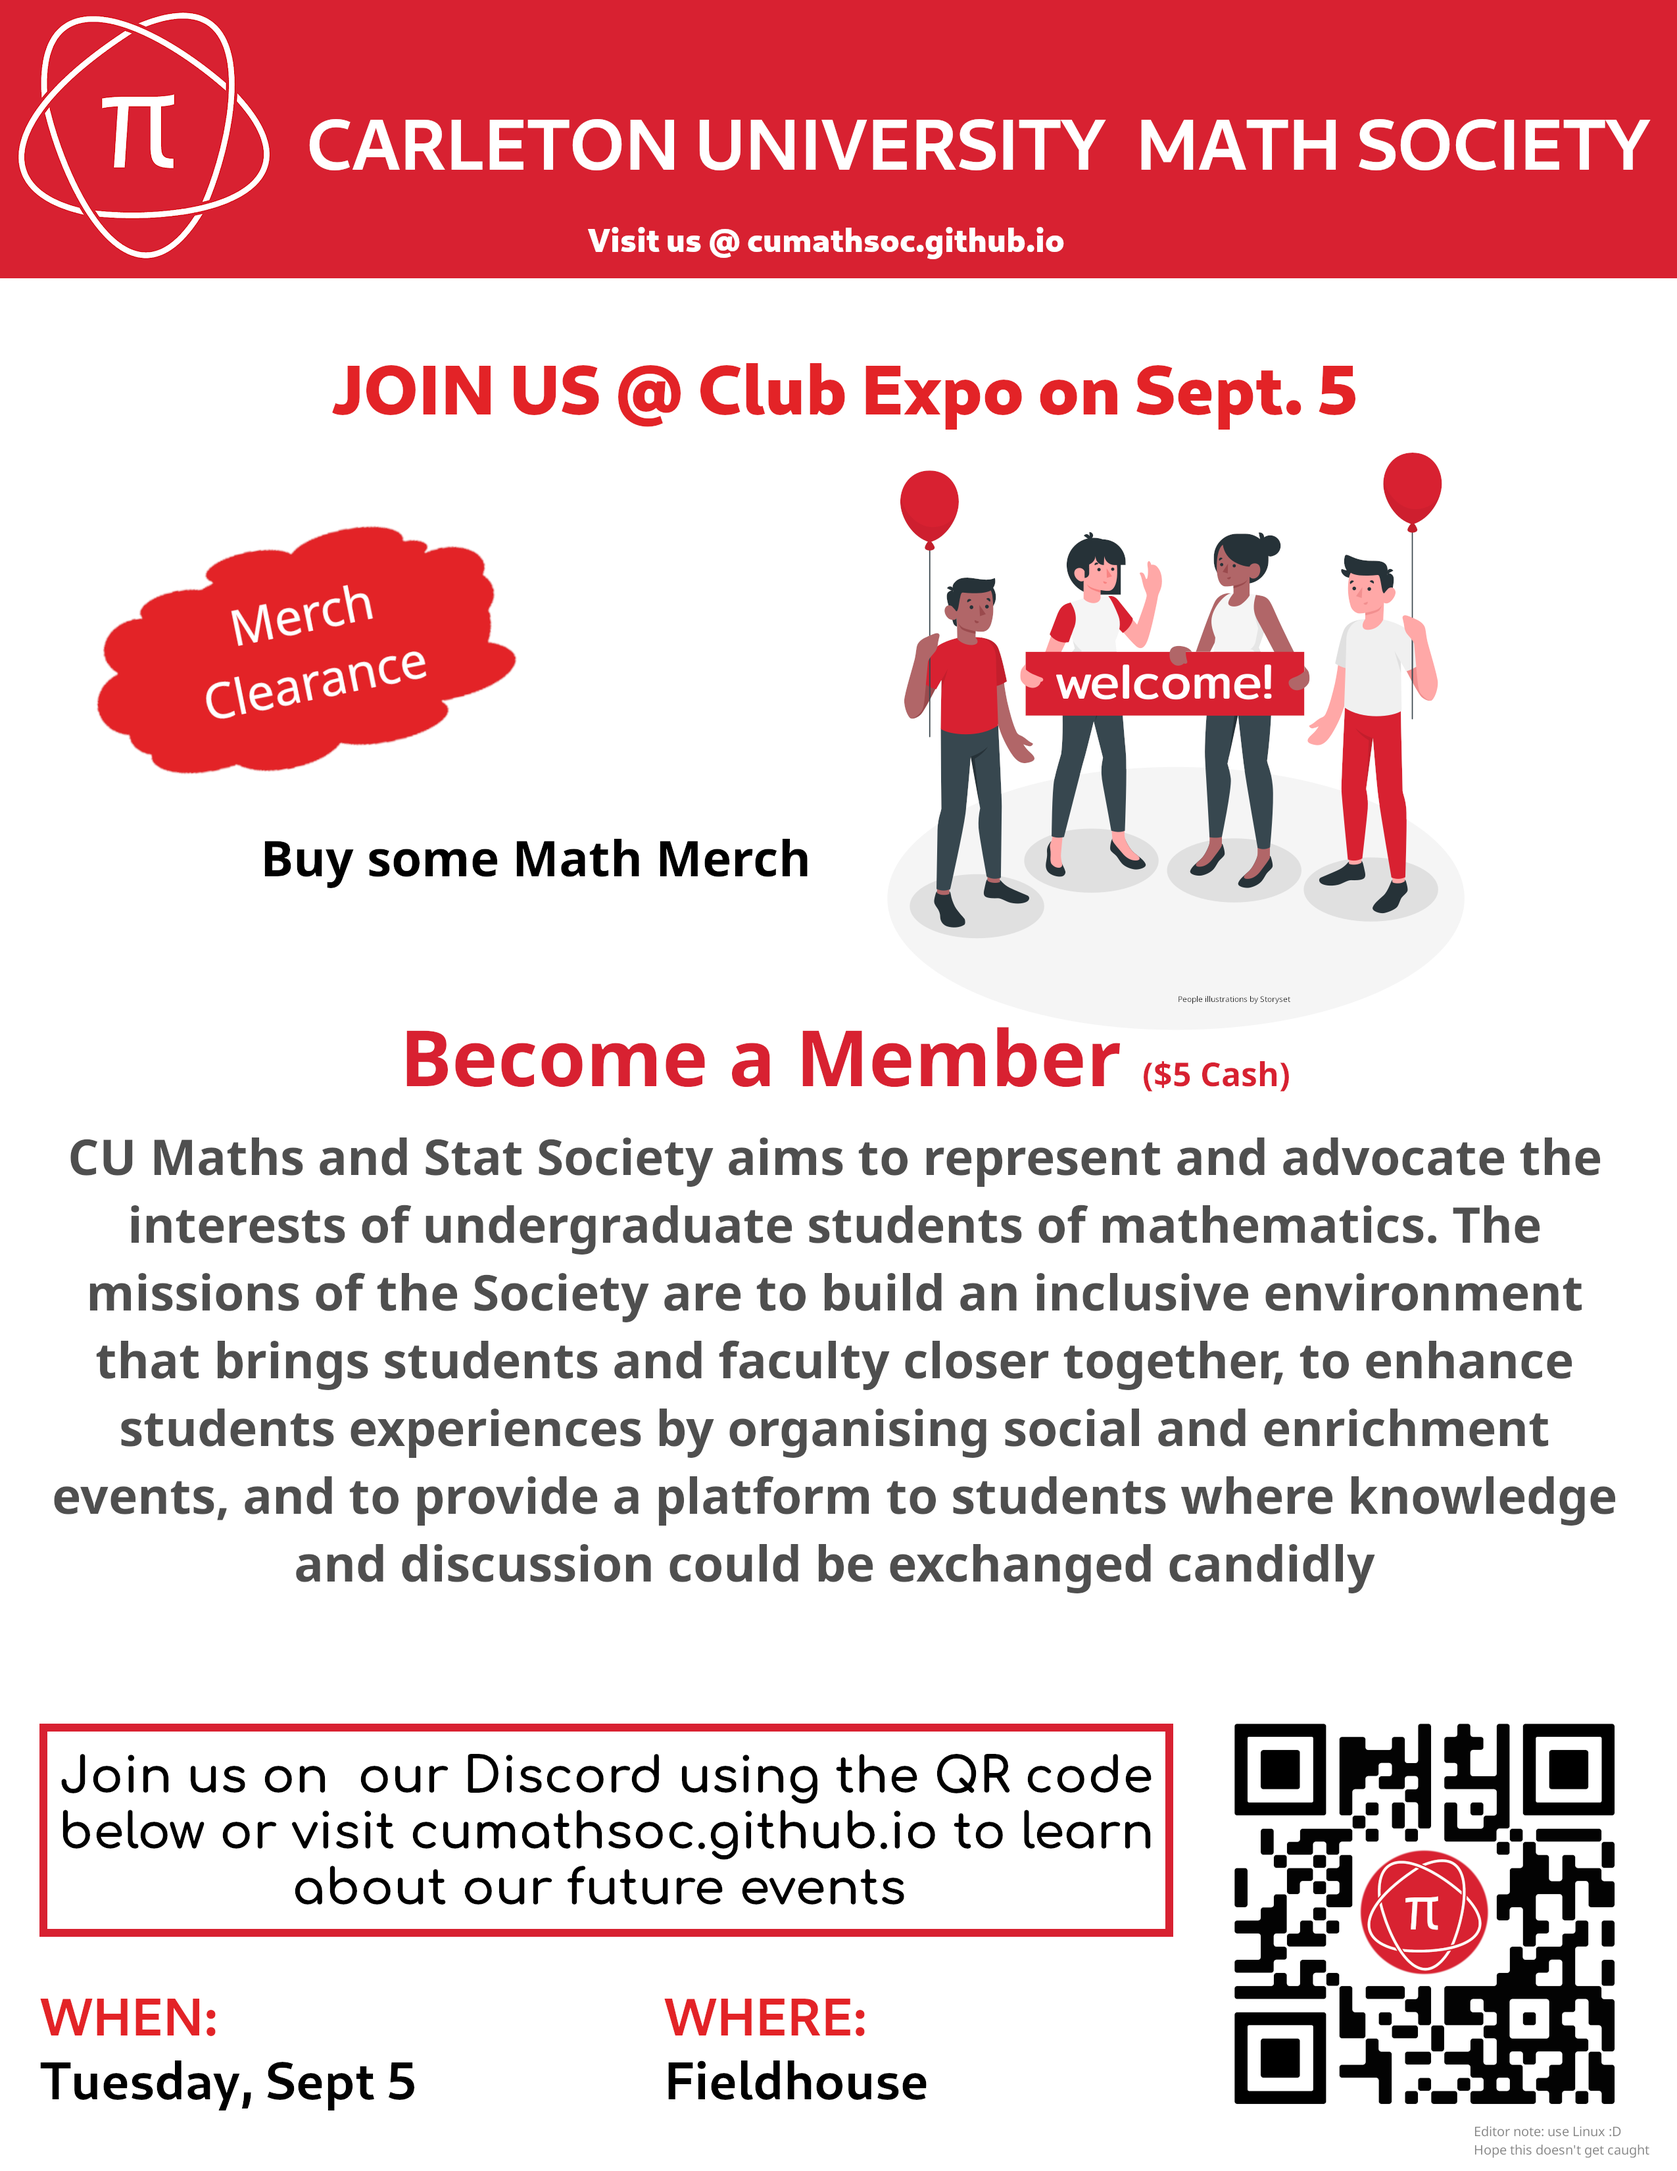
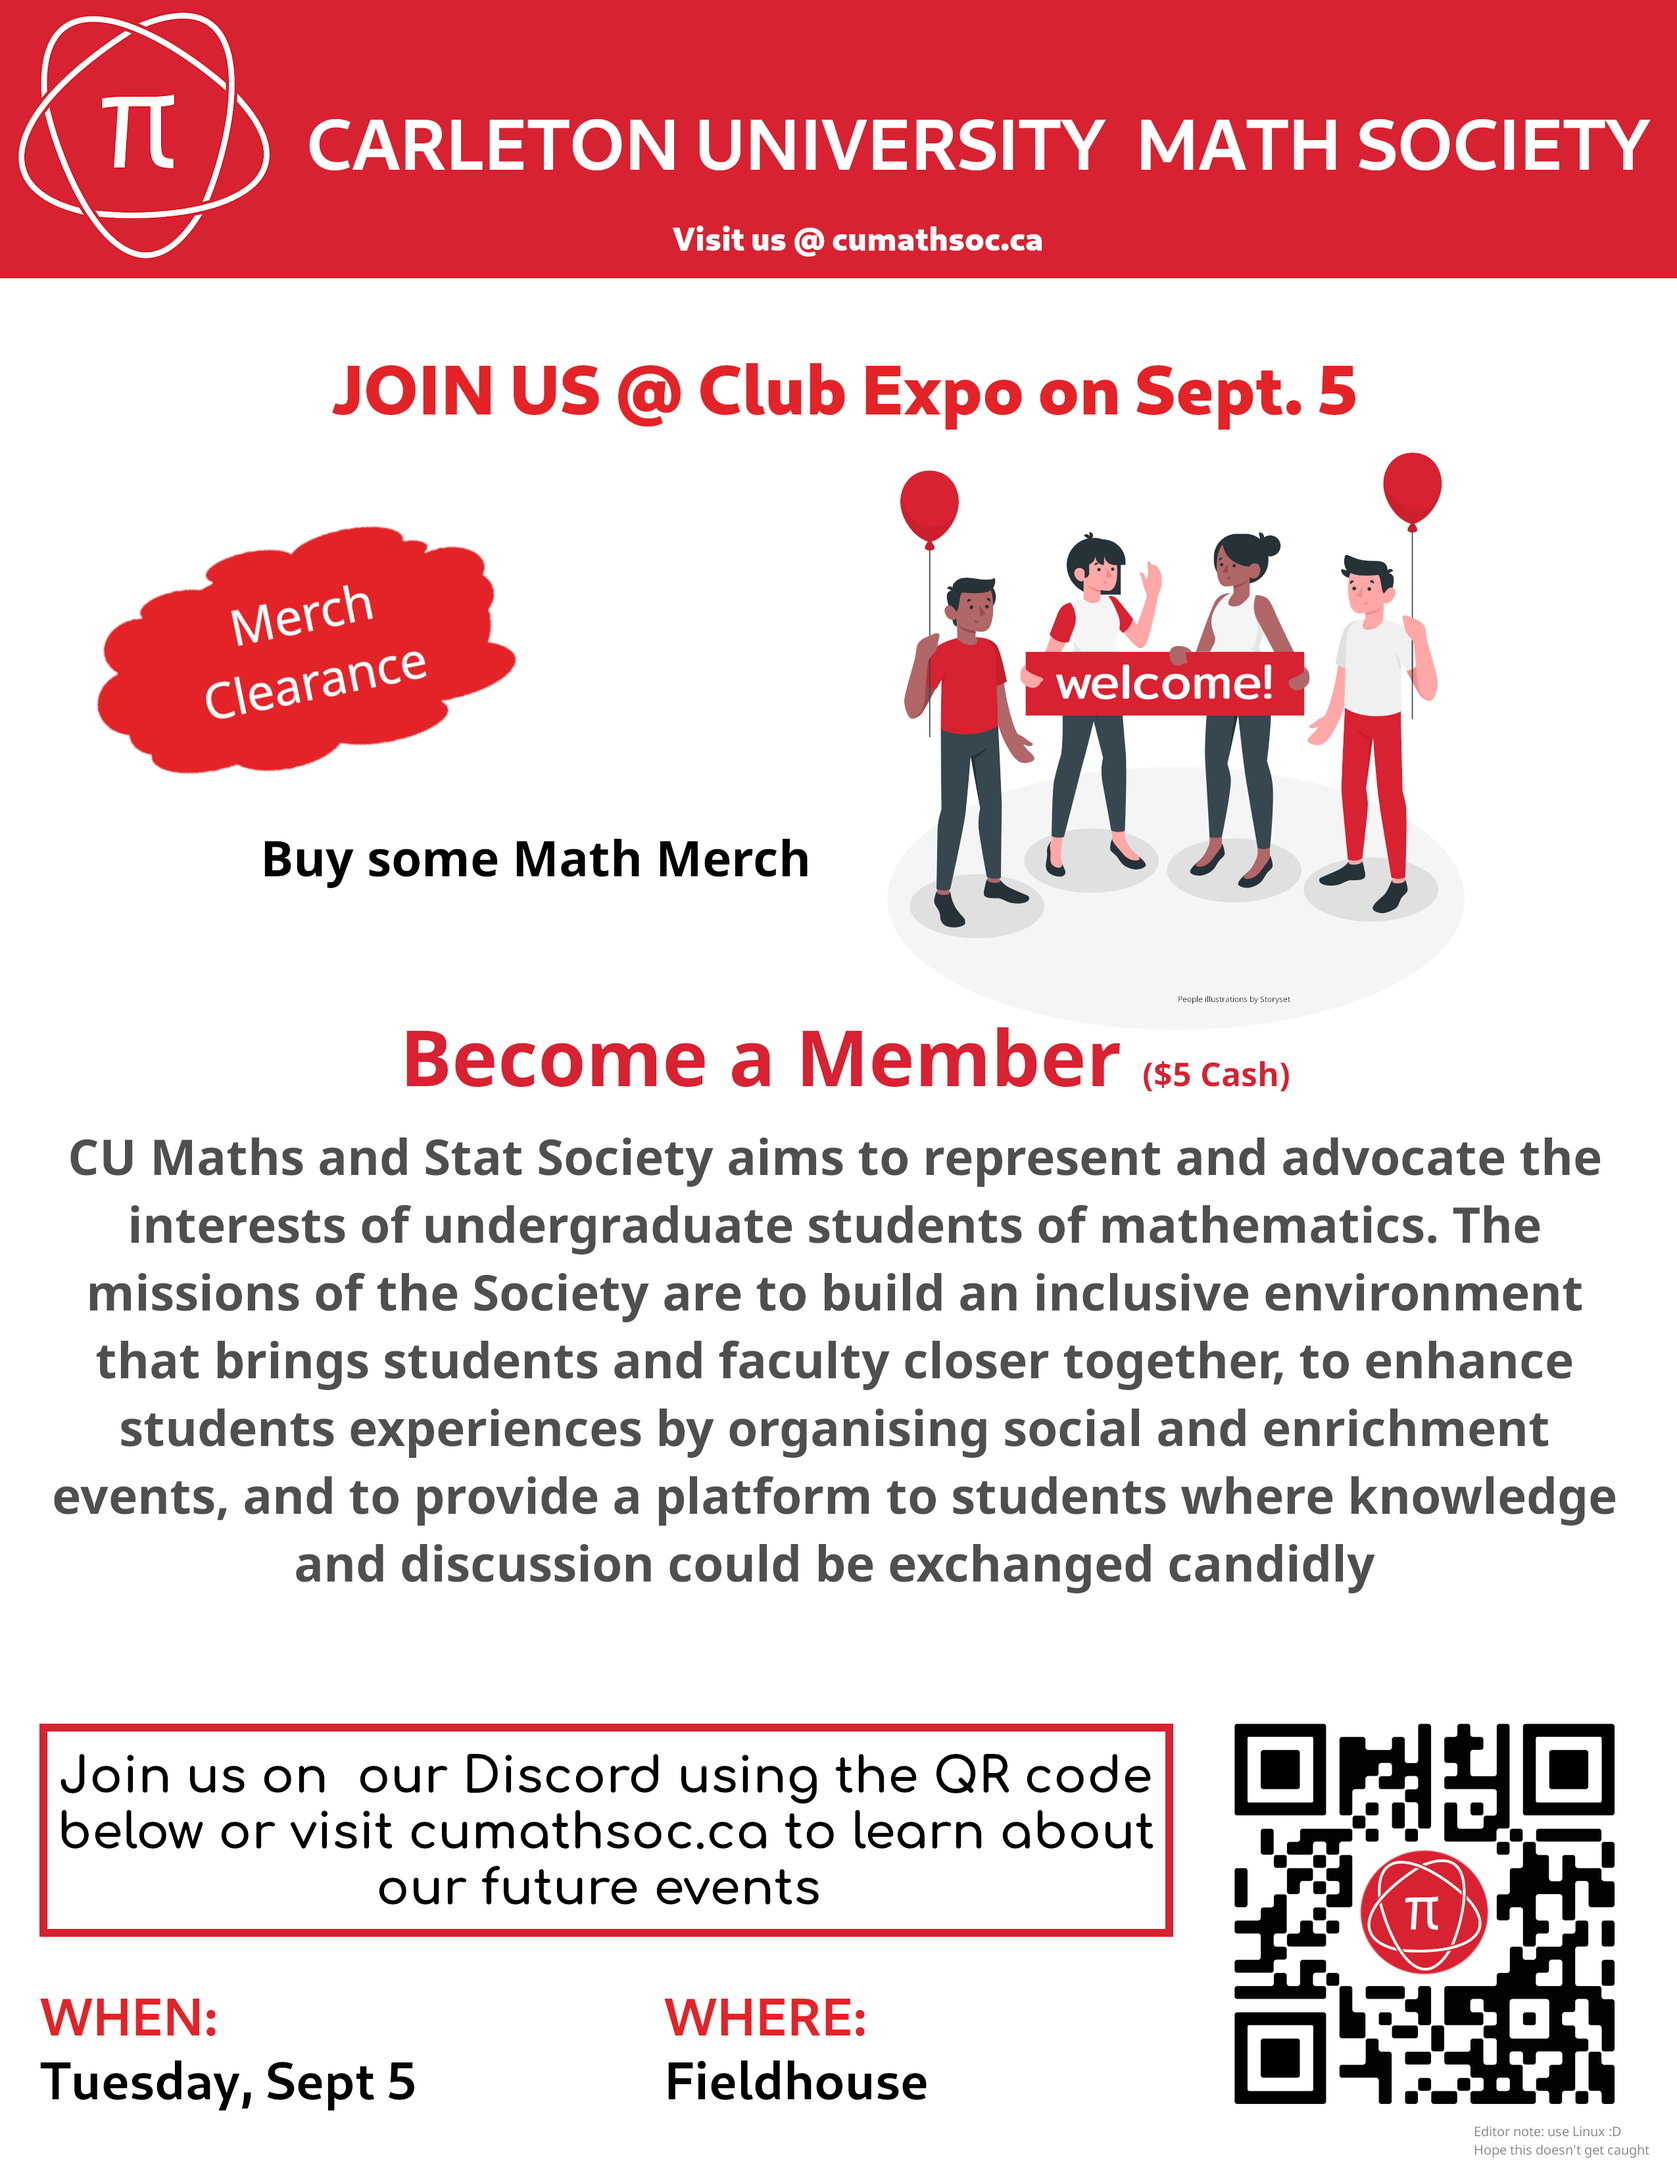
Update posters and events with new links

Changed region(s): [[0.1859, 0.8115, 0.6816, 0.8739], [0.3408, 0.0936, 0.6196, 0.1248], [0.062, 0.8115, 0.0929, 0.8427]]

diff --git a/scripts/data/events.js b/scripts/data/events.js
@@ -16,7 +16,7 @@ let events = [
 {
   "type": "news",
   "title": "MathSoc Membership",
-  "desc": "At the start of Fall 2023, we will be accepting new members. Becoming a member supports club activities and encourages us to make Math @ CarletonU a better experience!<p>Not only does it help us, it comes with perks as well:</p><ul><li>Free Food</a></li><li>Up to 25% off on Merch</li><li>50% Discount on Books</li><li>Access to Grad Lounge??? (TBD)</li></ul>To become a member, fill out the <a href=''>form</a> and pay the yearly $5 membership fees. It's worth the money."
+  "desc": "At the start of Fall 2023, we will be accepting new members. Becoming a member supports club activities and encourages us to make Math @ CarletonU a better experience!<p>Not only does it help us, it comes with perks as well:</p><ul><li>Free Food</a></li><li>Up to 25% off on Merch</li><li>50% Discount on Books</li><li>Access to Grad Lounge??? (TBD)</li></ul>To become a member, come to any MathSoc events and pay the yearly $5 membership fees. "
 },
 {
   "type": "news-poster",
@@ -32,7 +32,7 @@ let events = [
       "apple": "data:text/calendar;charset=utf8,BEGIN:VCALENDAR%0AVERSION:2.0%0ABEGIN:VEVENT%0ADTSTART:20230905T150000Z%0ADTEND:20230905T200000Z%0ASUMMARY:Math%20Soc%20%40%20Club%20Expo%0ADESCRIPTION:Come%20and%20connect%20with%20us.%20Merch%20and%20membership%20can%20be%20purchase.%0ALOCATION:Fieldhouse%0AEND:VEVENT%0AEND:VCALENDAR%0A"
   }   
 },
-{
+/*{
   "type": "news-poster",
   "title": "The Powerhouse of Problem Solving: Why Computer Science Triumphs over Mathematics",
   "presentor": "Nwxt--",
@@ -45,7 +45,7 @@ let events = [
       "apple": "data:text/calendar;charset=utf8,BEGIN:VCALENDAR%0AVERSION:2.0%0ABEGIN:VEVENT%0ADTSTART:20230918T203000Z%0ADTEND:20230918T213000Z%0ASUMMARY:A%20Unique%20Closed-Form%20Solution%20to%20the%20External%20Grazing%20Problem%0ADESCRIPTION:Speaker%3A%20Nwxt--%0ALOCATION:HP4351%0AEND:VEVENT%0AEND:VCALENDAR%0A"
   },
   "img": "images/events/troll-poster2.png"
-},
+},*/
 {
   "type": "news",
   "title": "A Unique Closed-Form Solution to the External Grazing Problem",

diff --git a/resources.html b/resources.html
@@ -84,9 +84,7 @@
 
             <p><a href="outlines.html">MathSoc Course Outlines Archive</a></p>
 
-            <p><a href = "https://www.youtube.com/watch?v=dQw4w9WgXcQ">Click here if you are bored</a></p>
-            
-            <div id = "linux">Linux<img src = "images/tux.gif" alt = "linux penguin" onmouseover="showLinuxText()" onmouseout="hideLinuxText()"/></div>
+            <div id = "linux">Linux <img src = "images/tux.gif" alt = "linux penguin"/></div>
         </div>
     </div>
 

diff --git a/about.html b/about.html
@@ -77,8 +77,7 @@
                 <li>Access to Grad Lounge??? (TBD)</li>
             </ul>
 
-            To become a member, fill out the <a href="">form</a> and pay the yearly $5 membership fees. 
-            It's worth the money.
+            To become a member, come to any MathSoc events and pay the yearly $5 membership fees. 
         </div>
     </div>
     <footer>

diff --git a/style.css b/style.css
@@ -366,15 +366,12 @@ source: https://www.w3schools.com/howto/howto_css_tooltip.asp
 
 
 #linux {
-  margin: auto;
-  text-align: center;
-  font-size: 150px;
   font-weight: bold;
-  color: #f9fafb;
+  /*color: #f9fafb;*/
 }
 
 #linux img {
-  height: 150px;
+  height: 1em;
 }
 
 .secret {
